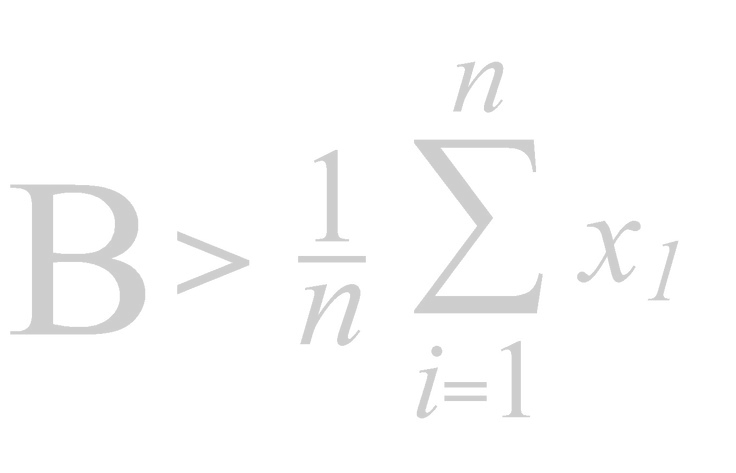
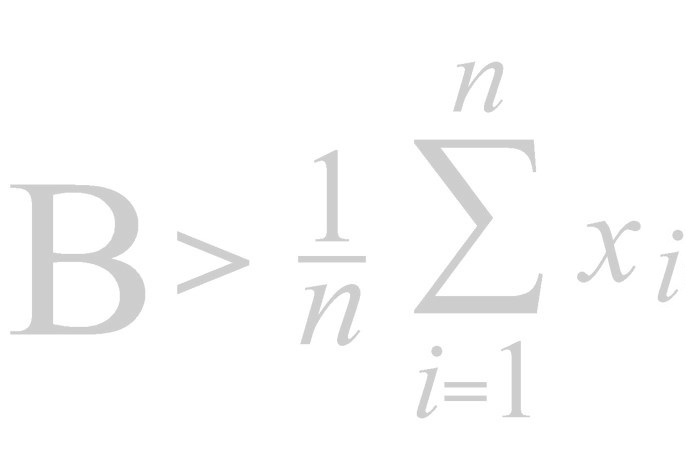
prof added

diff --git a/index.html b/index.html
@@ -21,99 +21,171 @@
     <meta name="viewport" content="width=device-width, initial-scale=1.0">
 </head>
 
-<nav class="navbar navbar-expand-md navbar-dark bg-primary fixed-top">
-      <a class="navbar-brand" href="https://t.me/AndreyYudov">Andrey Yudov</a>
-      <button class="navbar-toggler" type="button" data-toggle="collapse" data-target="#navbarColor01" aria-controls="navbarColor01" aria-expanded="false" aria-label="Toggle navigation">
-      <span class="navbar-toggler-icon"></span>
-      </button>
+<body>
+  <nav class="navbar navbar-expand-md navbar-dark fixed-top" style="background-color: #3B88DB;">
+        <a class="navbar-brand" href="https://t.me/AndreyYudov">Andrey Yudov</a>
+        <button class="navbar-toggler" type="button" data-toggle="collapse" data-target="#navbarColor01" aria-controls="navbarColor01" aria-expanded="false" aria-label="Toggle navigation">
+        <span class="navbar-toggler-icon"></span>
+        </button>
 
-     <div class="collapse navbar-collapse" id="navbarColor01">
-       <ul class="navbar-nav mr-auto">
-         <li class="nav-item">
-           <a class="nav-link" href="#">About Me</a>
-         </li>
-         <li class="nav-item">
-           <a class="nav-link" href="#education">Education</a>
-         </li>
-         <li class="nav-item">
-           <a class="nav-link" href="#">Professional experience</a>
-         </li>
-         <li class="nav-item">
-           <a class="nav-link" href="#">Proficiencies</a>
-         </li>
-         <li class="nav-item">
-           <a class="nav-link" href="#">Interests</a>
-         </li>
-       </ul>
-       <a class="btn btn-dark" href="https://drive.google.com/open?id=19-bLpoF7jy57aPUH6kGkBI_yiWMiKI71" target="_blank">PDF</a>
-     </div>
-</nav>
-<div class="spacer">
+       <div class="collapse navbar-collapse" id="navbarColor01">
+         <ul class="navbar-nav mr-auto">
+           <li class="nav-item">
+             <a class="nav-link" href="#">About Me</a>
+           </li>
+           <li class="nav-item">
+             <a class="nav-link" href="#education">Education</a>
+           </li>
+           <li class="nav-item">
+             <a class="nav-link" href="#prof_experience">Professional experience</a>
+           </li>
+           <li class="nav-item">
+             <a class="nav-link" href="#">Proficiencies</a>
+           </li>
+           <li class="nav-item">
+             <a class="nav-link" href="#">Interests</a>
+           </li>
+         </ul>
+         <a class="btn btn-dark" href="https://drive.google.com/open?id=19-bLpoF7jy57aPUH6kGkBI_yiWMiKI71" target="_blank">PDF</a>
+       </div>
+  </nav>
+
+  <div class="spacer">
+      &nbsp;
+  </div>
+  <div class="spacer">
+      &nbsp;
+  </div>
+  <div class="spacer">
     &nbsp;
-</div>
-<div class="spacer">
-    &nbsp;
-</div>
-<div class="spacer">
-    &nbsp;
-</div>
-<div class="container">
-  <div class="row">
-    <div class="col-sm-4">
-      <div class="card text-white bg-dark">
-        <div class="card-header text-center">Short Info</div>
-        <img src="img/AndreyYudov.jpg" class="w-75 img-fluid rounded mx-auto d-block" alt="My image">
+  </div>
+
+  <div class="container">
+    <div class="row">
+      <div class="col-sm-4 p-0">
+        <div class="card text-light bg-dark rounded-0">
+          <div class="card-header text-center">Short Info</div>
+          <img src="img/AndreyYudov.jpg" class="w-75 img-fluid rounded mx-auto d-block" alt="My image">
           <div class="card-body">
             <h4 class="card-title">Andrey Yudov</h4>
-              <p><b>About: </b>3rd year student at <a href="https://kpi.ua/en" target="_blank">university</a></p>
-              <p><b>Domain: </b>Computer sciences</p>
-              <p><b>Location: </b>Ukraine, <a href="https://goo.gl/maps/ctDU2Vt6aDs" target="_blank">Kyiv</a></p>
-              <p><b>E-mail: </b>yudovv@gmail.com</p>
-              <p><b>Cell number: </b>+38050923591</p>
+            <p><b>About: </b>3rd year student at <a href="https://kpi.ua/en" target="_blank">university</a></p>
+            <p><b>Domain: </b>Computer sciences</p>
+            <p><b>Location: </b>Ukraine, <a href="https://goo.gl/maps/ctDU2Vt6aDs" target="_blank">Kyiv</a></p>
+            <p><b>E-mail: </b>yudovv@gmail.com</p>
+            <p><b>Cell number: </b>+38050923591</p>
           </div>
+        </div>
       </div>
-    </div>
-    <div class="col-sm-8" id="about_me">
-      <div class="row">
-        <div class="card bg-dark text-dark border-light">
-          <img class="card-img" src="img/b.jpg" alt="Card image">
-          <div class="card-img-overlay">
-            <p class="card-text">
-              <blockquote class="blockquote text-right">
-                <p class="mb-5 p-5">Look up at the stars and not down at your feet. Try to make sense of what you see, and wonder about what makes the universe exist. Be curious.</p>
-                <footer class="blockquote-footer p-5">Stephen Hawking</footer>
-              </blockquote>
-            </p>
+      <div class="col-sm-8" id="about_me">
+        <div class="row pt-5">
+          <img class="card-img" src="img/b.jpg" alt="Card image" onmouseover="b.style.opacity='1';" onmouseout="b.style.opacity='0';">
+        </div>
+        <div class="row pt-5">
+          <div class="col-sm-12">
+            <h3 id="b"class="text-center" style="color:#CDCDCD; opacity:0;" onmouseover="this.style.opacity='1';" onmouseout="this.style.opacity='0';">be greater than average</h3>
           </div>
         </div>
       </div>
     </div>
   </div>
 
-  <div class="row mt-3" id="education">
-    <div class="col-sm-12">
-      <h1 class="text-center">Education background</h1>
+  <div class="container">
+    <div class="row mt-0" id="education">
+      <div class="col-sm-4" style="background-color: #ffffff;"></div>
+      <div class="p-2 col-sm-8" style="background-color: #3B88DB;">
+        <h1 class="text-right text-light">Education background</h1>
+      </div>
+    </div>
+
+    <div class="row mt-0">
+      <div class="p-3 col-sm-4 bg-dark text-light text-justify">
+        <b>Kiev Polytechnic Institute (KPI)<br>Kiev, Ukraine<br></b>2016
+      </div>
+      <div class="p-3 col-sm-8 bg-light text-dark text-justify">
+        <p>Third year student with full excellence based stipend. KPI is a leading engineering
+        university in Ukraine. 19 faculties, 9 educational and scientific institutes and 25,000+
+        students.</p>
+        <p>▴<b>Main technical courses:</b> Algorithmic language, Object-oriented programming, System
+        programming, Architecture computer systems, Database management systems, Flexible
+        computerized systems, Theory of algorithms, Sensory systems, Web Technologies,
+        Computer Modeling, Back-end technologies.</p>
+        <p>▴<b>Projects (available on my GitHub):</b> Recreated the 70's Atari game "Asteroids", using
+        C++ programming language. Built a smart robot, achieved walking from point A to
+        point B avoiding obstacles, with embedded advanced functions: calculate area, angles,
+        center of mass of objects, bypassing their perimeter. Designed circuits replication of
+        elementary logical and math operations. Website making. Server management.</p>
+      </div>
+    </div>
+
+    <div class="row">
+      <div class="p-3 col-sm-4 bg-light text-dark text-justify">
+        <b>Polytechnic lyceum of KPI<br>Kiev, Ukraine<br></b>2014-2016
+      </div>
+      <div class="p-3 col-sm-8 bg-dark text-light text-justify">
+        <p>Engineering focused high school, in partnership with the KPI.</p>
+        <p>▴<b>Technical courses:</b> Physics, math, mechanics, chemistry.</p>
+        <p>▴<b>Projects: </b>Participated in French language competition.</p>
+      </div>
+    </div>
+
+    <div class="row">
+      <div class="p-3 col-sm-4 bg-dark text-light text-justify">
+        <b>"Institut Francais Ukraine"</b>
+      </div>
+      <div class="p-3 col-sm-8 bg-light text-dark text-justify">
+        <p>Took classes on "Institut Francais" twice a year since 2013. Achieved B1.5 grade.</p>
+      </div>
     </div>
   </div>
-  <div class="row mt-1">
-    <div class="p-3 col-sm-5 bg-dark text-white text-justify">
-      <b>Kiev Polytechnic Institute (KPI)<br>Kiev, Ukraine<br></b>2016
+
+  <div class="container">
+    <div class="row mt-0" id="prof_experience">
+      <div class="col-sm-4" style="background-color: #ffffff;"></div>
+      <div class="p-2 col-sm-8"style="background-color: #3B88DB;">
+        <h1 class="text-right text-light">Professional experience</h1>
+      </div>
     </div>
-    <div class="p-3 col-sm-7 bg-light text-dark text-justify">
-      <p>Third year student with full excellence based stipend. KPI is a leading engineering
-      university in Ukraine. 19 faculties, 9 educational and scientific institutes and 25,000+
-      students.</p>
-      <p>▴ <b>Main technical courses:</b> Algorithmic language, Object-oriented programming, System
-      programming, Architecture computer systems, Database management systems, Flexible
-      computerized systems, Theory of algorithms, Sensory systems, Web Technologies,
-      Computer Modeling, Back-end technologies.</p>
-      <p>▴ <b>Projects (available on my GitHub):</b> Recreated the 70's Atari game "Asteroids", using
-      C++ programming language. Built a smart robot, achieved walking from point A to
-      point B avoiding obstacles, with embedded advanced functions: calculate area, angles,
-      center of mass of objects, bypassing their perimeter. Designed circuits replication of
-      elementary logical and math operations. Website making. Server management.</p>
+
+    <div class="row">
+      <div class="p-3 col-sm-4 bg-dark text-light text-justify">
+        <b><a href="https://telegram.org/" target="_blank">Telegram</a> Bots<br>Developper<br></b>2018
+      </div>
+      <div class="p-3 col-sm-7 bg-light text-dark text-justify">
+        <p>Telegram is a cloud-based mobile and desktop messaging app with a focus on security and speed. My Bots are available on GitHub written in Python language.</p>
+        <p>▴ Bot-organizer for my groups in University.</p>
+        <p>▴ Bot-manager for Leroy Merlin Ukraine.</p>
+      </div>
+      <div class="p-3 col-sm-1 bg-light text-dark col-centered align-self-center">
+        <h5>6 mo.</h5>
+      </div>
+
+    </div>
+
+    <div class="row">
+      <div class="p-3 col-sm-4 bg-light text-dark text-justify">
+        <b><a href="https://www.best.eu.org/aboutBEST/structure/lbgView.jsp?lbginfo=kv" target="_blank">BEST Kyiv</a><br>"Baby"<br></b>2018
+      </div>
+      <div class="p-3 col-sm-8 bg-dark text-light text-justify">
+        <p><b>Board of European Students of Technology (BEST)</b> is a constantly growing
+        non-profit and non-political organisation. Since 1989 BEST provide communication,
+        co-operation and exchange possibilities for students all over Europe. Achieved "Baby" grade in summer 2018.</p>
+        <p>▴ Main organizer of a <a href="https://www.facebook.com/bookosourcKPI/">"Book Auction in KPI 2018"</a>.</p>
+        <p>▴ Logistics and IT responsible in <a href="http://ebec.best-kyiv.org/home">European BEST Engineering Competition in Kyiv 2018</a>.</p>
+      </div>
+    </div>
+
+    <div class="row">
+      <div class="p-3 col-sm-4 bg-dark text-light text-justify">
+        <b><a href="https://www.leroymerlin.ua/" target="_blank">Leroy Merlin</a><br> Kiev, Ukraine<br>Interviewer, operator of questionnaires</b><br>2013 - 2017
+      </div>
+      <div class="p-3 col-sm-8 bg-light text-dark text-justify">
+        <p>Part time assignments supporting the marketing team of Leroy Merlin, major chain of home improvement and DIY products.
+        <p>▴ Interviewed customers.</p>
+        <p>▴ Prepared surveys and optimized data entry.</p>
+        <p>▴ Transfered the results into an electronic database for further data processing.</p>
+      </div>
+    </div>
   </div>
-</div>
 
 </body>
 </html>
